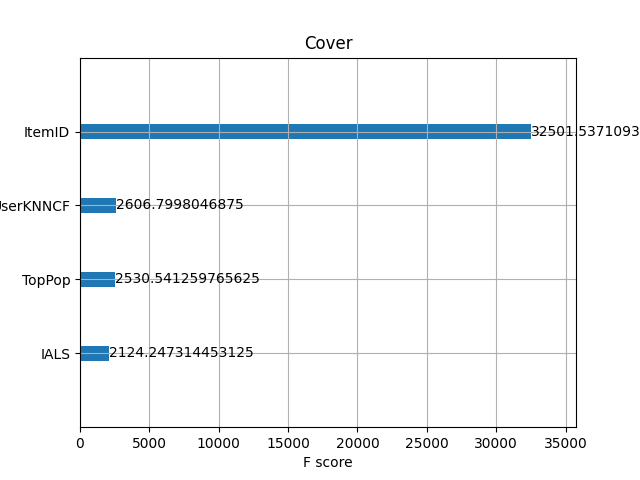
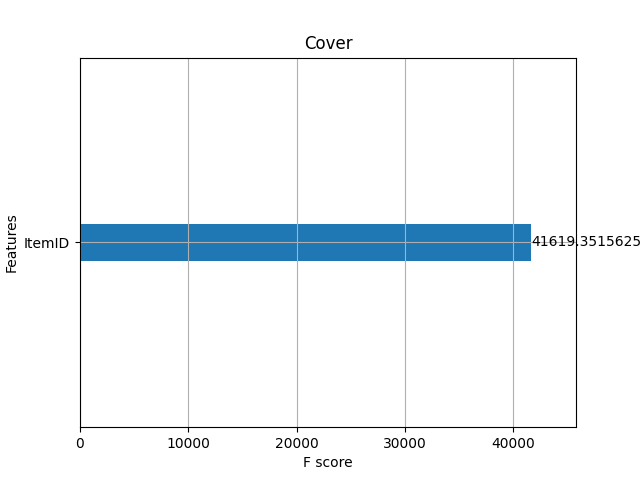
feat(xgboost): add features

diff --git a/challenge/XGBoost/k_fold_cross_validation.py b/challenge/XGBoost/k_fold_cross_validation.py
@@ -1,12 +1,11 @@
 import numpy as np
 import pandas as pd
 import scipy.sparse as sps
+import xgboost as xgb
+from sklearn.metrics import classification_report
 from sklearn.model_selection import GridSearchCV
 from sklearn.model_selection import train_test_split
 from tqdm import tqdm
-from sklearn.metrics import classification_report
-from sklearn.metrics import accuracy_score
-import xgboost as xgb
 
 from Data_manager.split_functions.split_train_validation_random_holdout import \
     split_train_in_two_percentage_global_sample
@@ -35,15 +34,15 @@ def __main__():
     URM_train_recommenders, URM_train_booster = train_test_split(URM_train, test_size=0.5, random_state=42)
 
     param_grid = {
-        'n_estimators': [5, 50],
-        'learning_rate': [1e-5, 1e-2],
-        'reg_alpha': [0.5, 1],
+        'n_estimators': [50],
+        'learning_rate': [1e-2],
+        'reg_alpha': [1],
         'reg_lambda': [1],
-        'max_depth': [3, 5],
-        'max_leaves': [3, 5],
+        'max_depth': [5],
+        'max_leaves': [5],
         'grow_policy': ['depthwise'],
         'objective': ['binary:logistic'],
-        'booster': ['gbtree', 'gblinear'],
+        'booster': ['gbtree'],
         'enable_categorical': [True],
     }
 
@@ -113,15 +112,13 @@ def __main__():
     X_train["UserID"] = X_train["UserID"].astype("category")
     X_train["ItemID"] = X_train["ItemID"].astype("category")
 
-    objective = 'logistic'
-    model = xgb.XGBClassifier(objective='binary:{}'.format(objective), enable_categorical=True)
+    groups = training_dataframe.groupby("UserID").size().values
+
+    objective = 'pairwise'
+    model = xgb.XGBRanker(objective='rank:{}'.format(objective), enable_categorical=True)
 
     grid_search = GridSearchCV(estimator=model, param_grid=param_grid, cv=10, error_score='raise')
-    try:
-        grid_search.fit(X_train, y_train)
-    except ValueError as e:
-        print(e)
-        raise e
+    grid_search.fit(X_train, y_train, group=groups, verbose=True)
 
     print("Migliori parametri: ", grid_search.best_params_)
     print("Miglior score: ", grid_search.best_score_)

diff --git a/challenge/XGBoost/classifier.py b/challenge/XGBoost/classifier.py
@@ -423,3 +423,4 @@ def __main__():
 
 if __name__ == '__main__':
     __main__()
+    # Parametri ottimali della Grid Search: {'booster': 'gbtree', 'gamma': 0.05, 'learning_rate': 0.01, 'max_depth': 1, 'n_estimators': 350, 'reg_alpha': 7, 'reg_lambda': 0.001}
